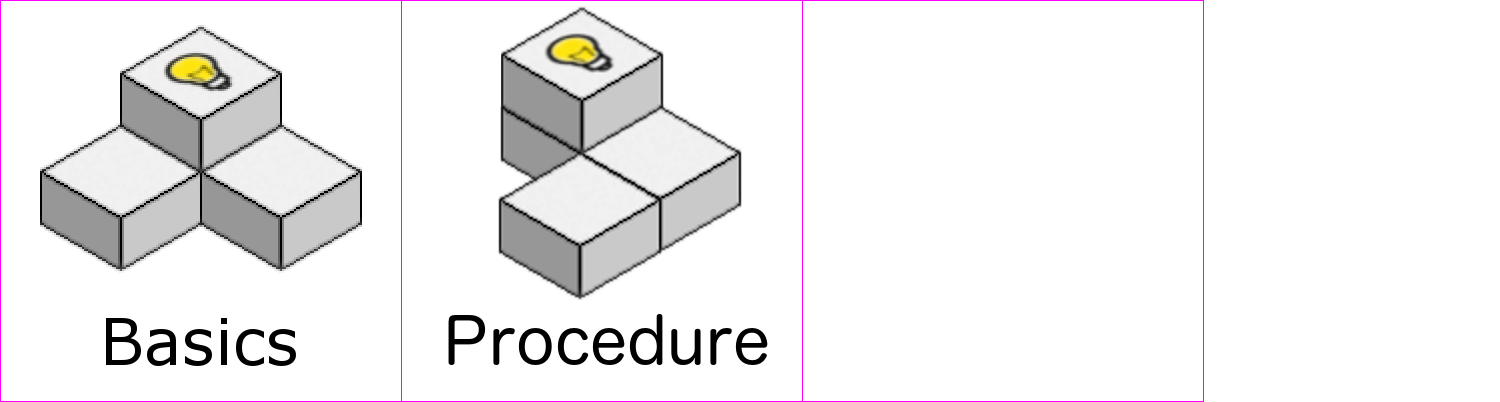
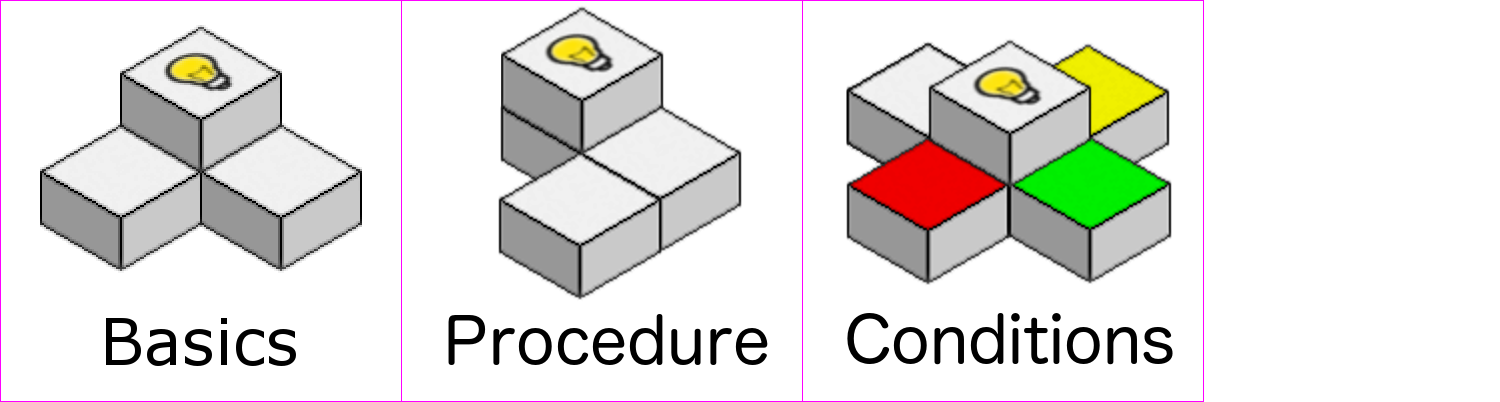
mise a jour le menu_level pour afficher l'image de niveau

Changed region(s): [[0.552, 0.0896, 0.7973, 0.7164], [0.552, 0.7761, 0.7973, 0.9254]]

diff --git a/src/UI/Menu_Level.java b/src/UI/Menu_Level.java
@@ -32,7 +32,7 @@ public class Menu_Level extends Menu
 		returnMenu.setTexture(Ressources.TEXTURE.getTexture(TEXTURE.RETURN_MENU));
 		returnMenu.setTextureRect(new IntRect(1,1,100,100));
 		Sprite spr;
-		for(int i = 0 ; i < 2 ; i++)
+		for(int i = 0 ; i < 3 ; i++)
 		{
 			spr = new Sprite();
 			spr.setTexture(Ressources.TEXTURE.getTexture(TEXTURE.MONDE));
